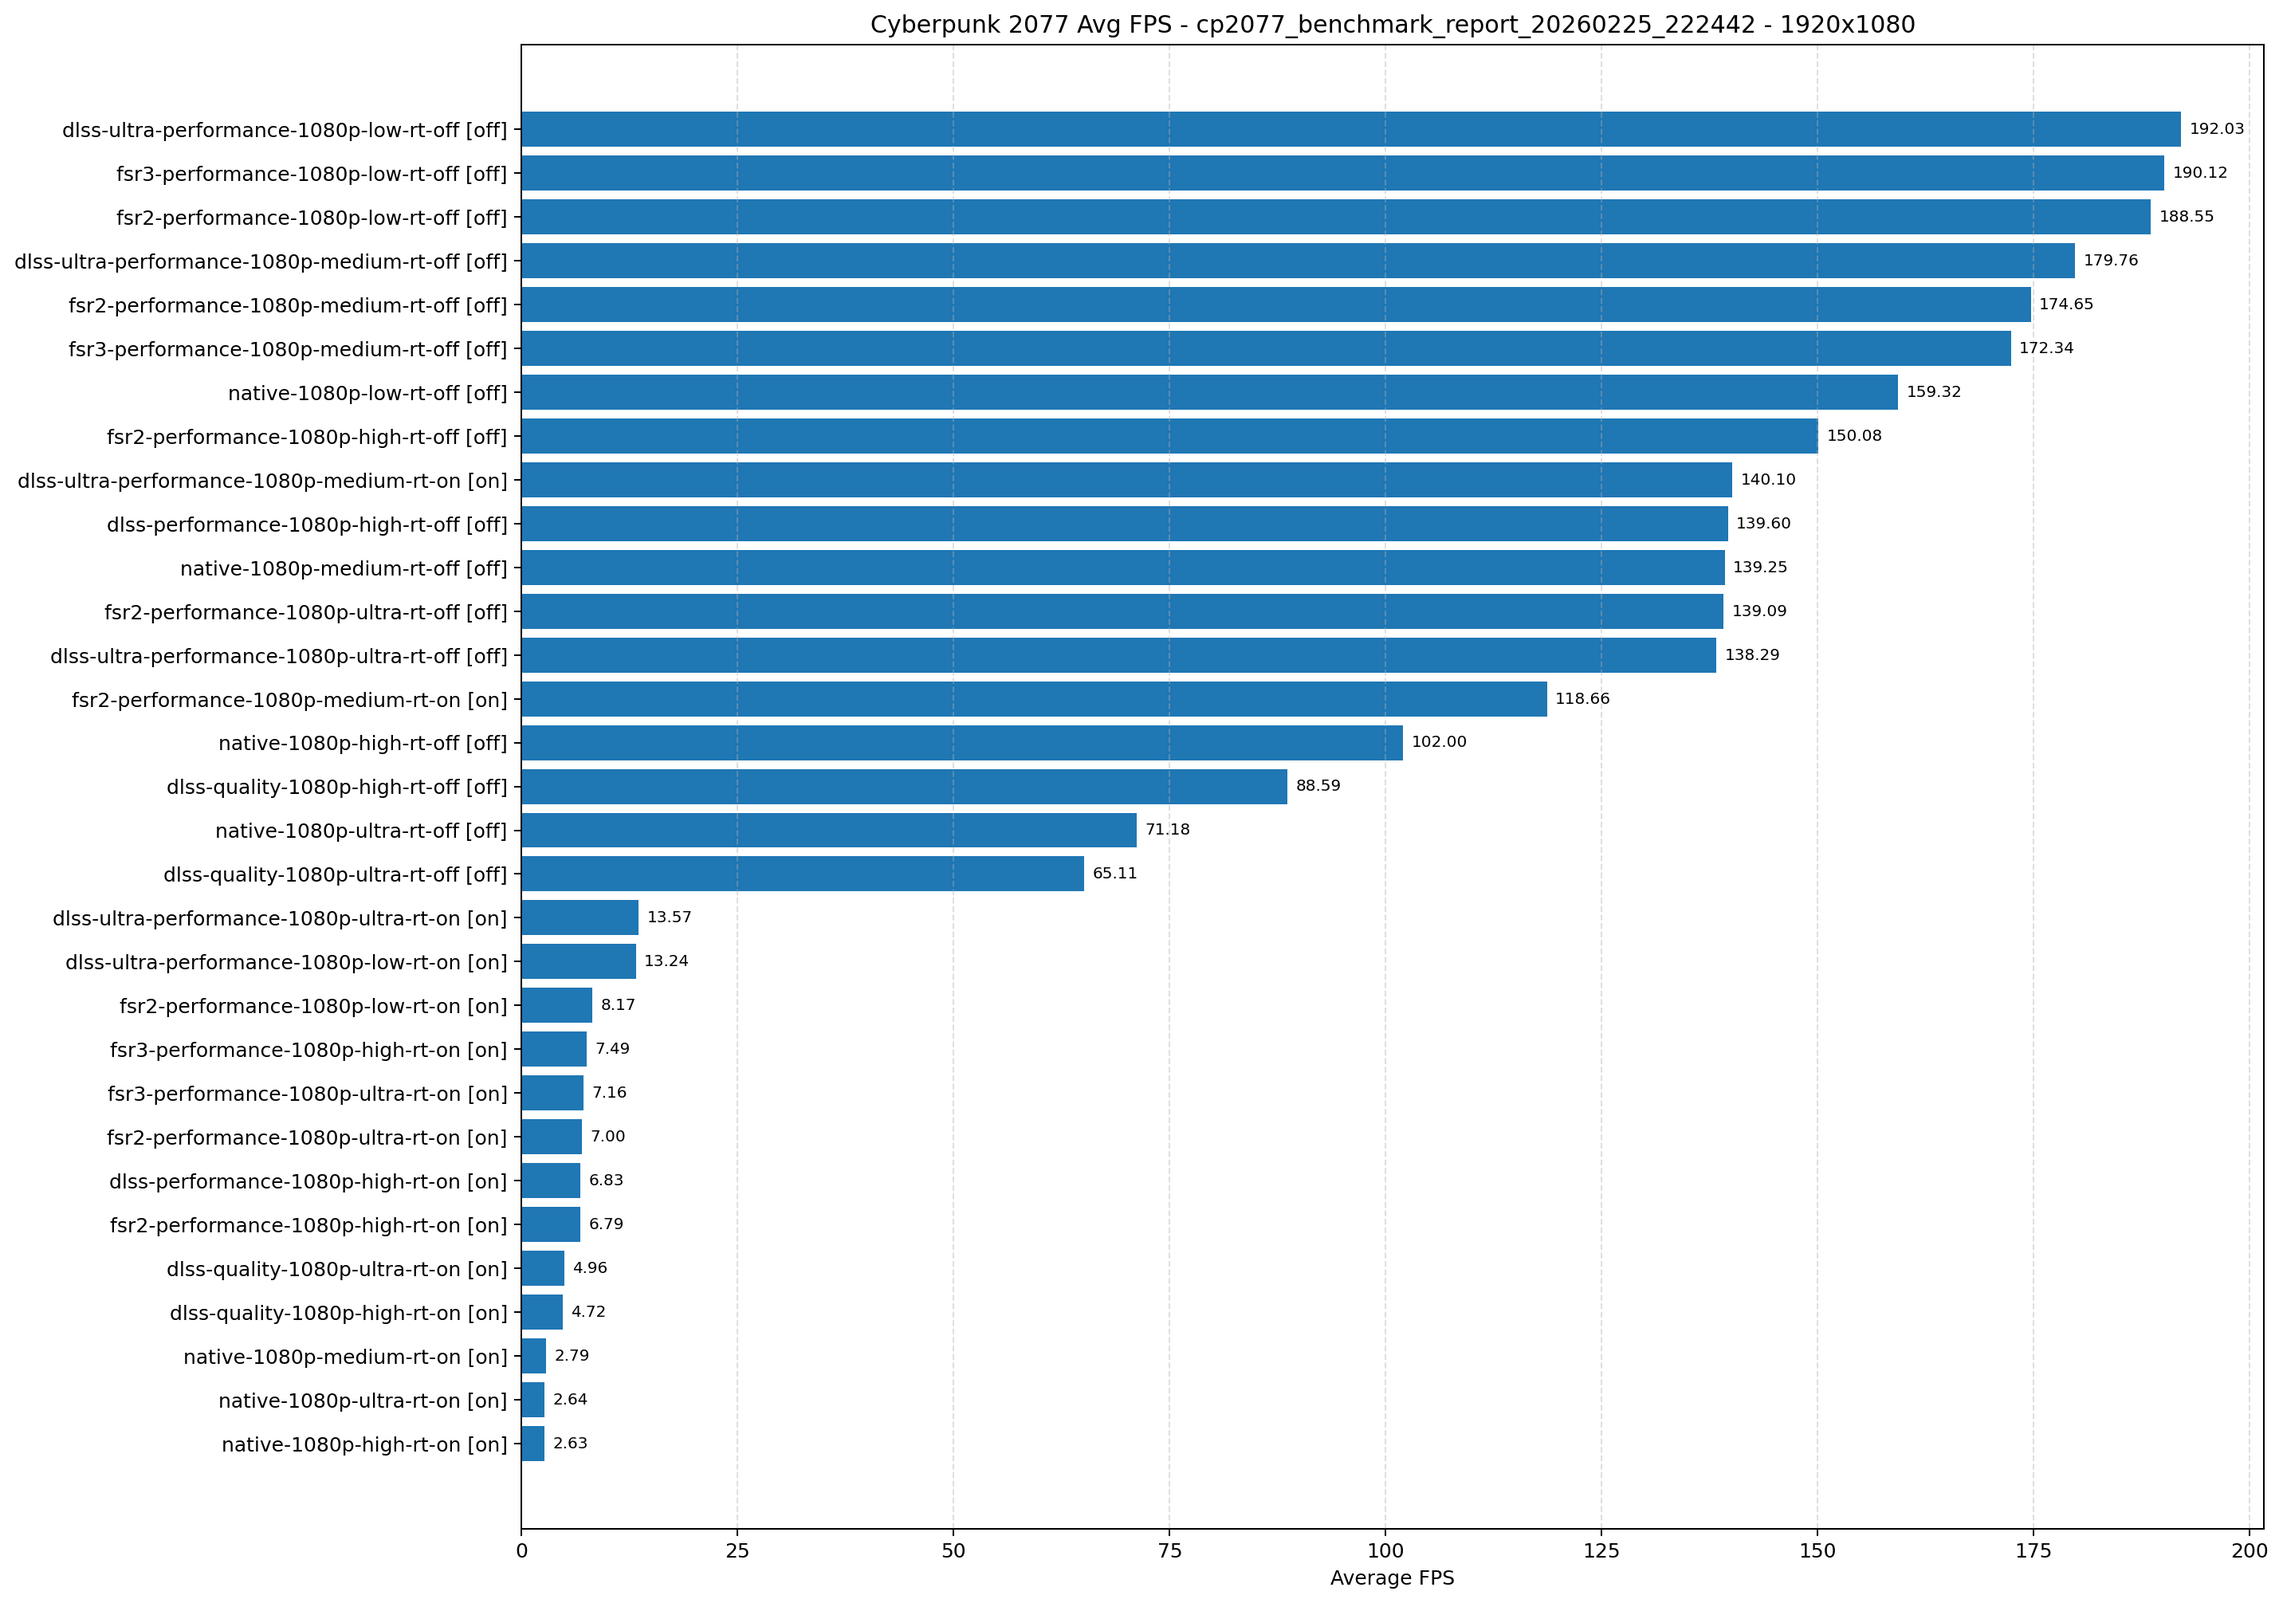
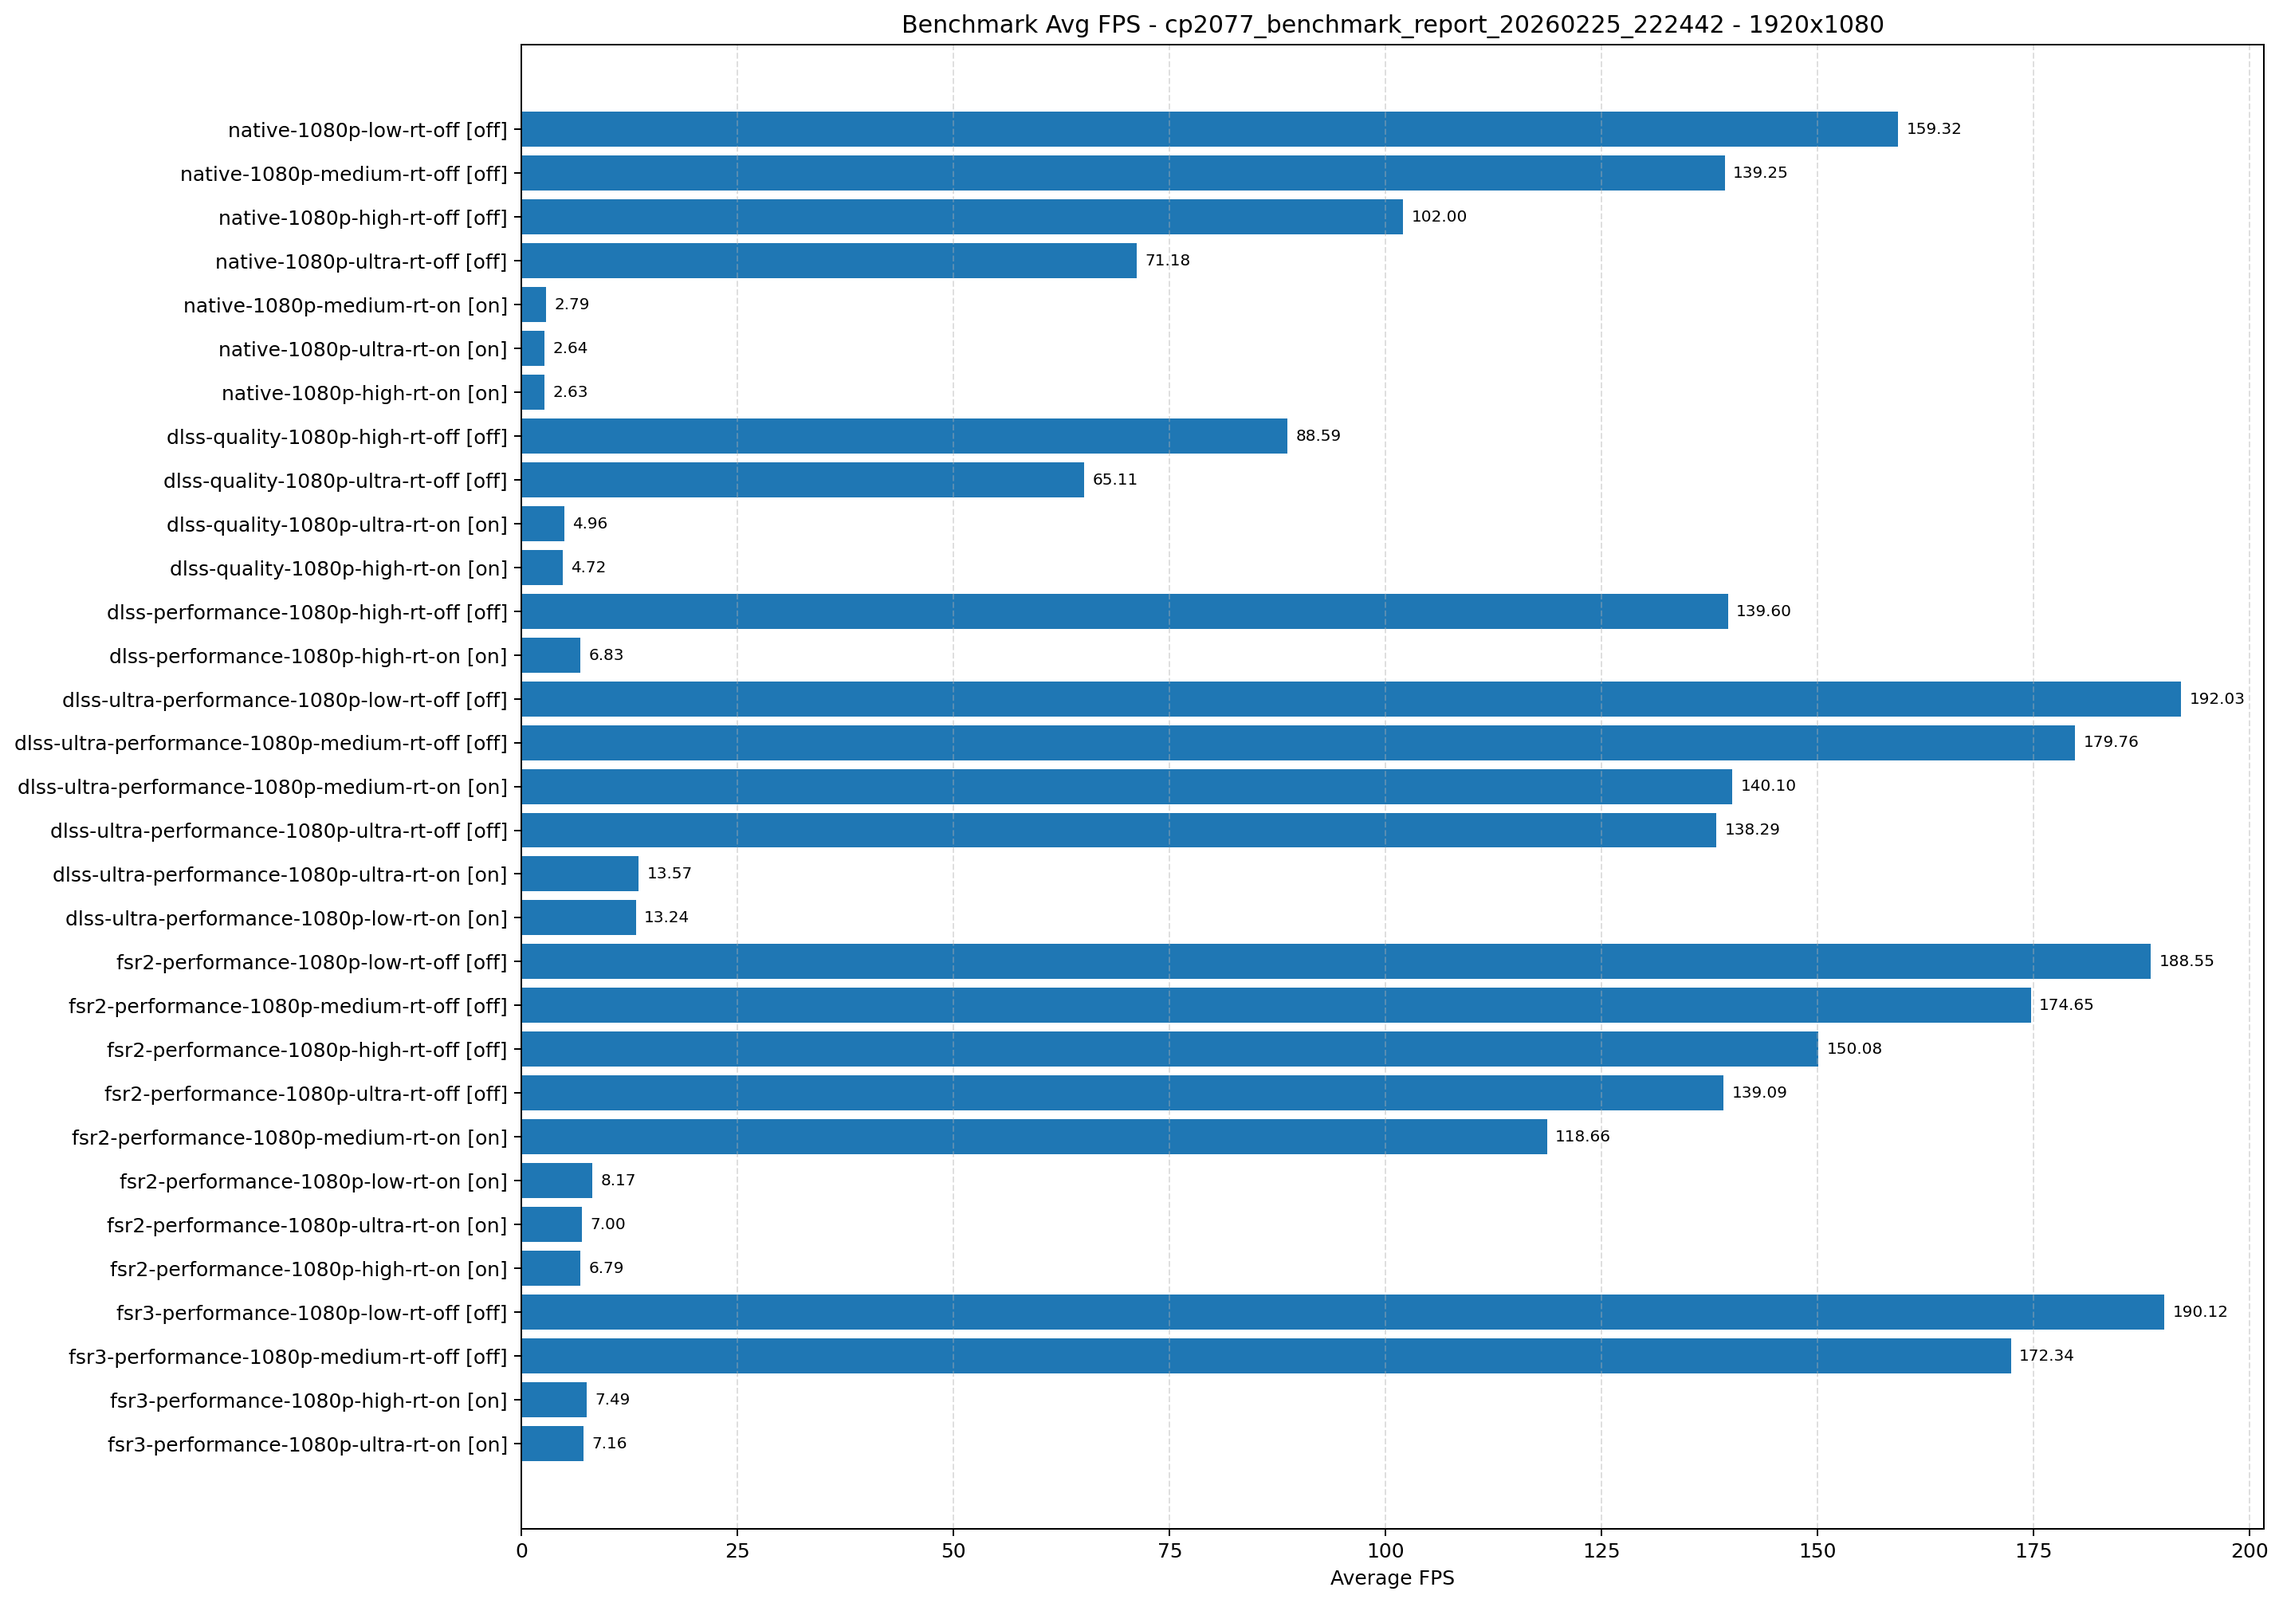
new reports sorting

Changed region(s): [[0.0, 0.0617, 0.9633, 0.9249], [0.3729, 0.0, 0.839, 0.0308]]

diff --git a/src/convert_markdown_reports.py b/src/convert_markdown_reports.py
@@ -143,8 +143,30 @@ def group_rows(rows: Sequence[ReportRow], split_by_resolution: bool) -> Dict[str
     return grouped
 
 
+def configuration_group(mode: str) -> Tuple[int, str]:
+    normalized = mode.strip().lower()
+
+    if normalized == "native":
+        return (0, normalized)
+    if "quality" in normalized:
+        return (1, normalized)
+    return (2, normalized)
+
+
+def sort_rows_for_visual_report(rows: Sequence[ReportRow]) -> List[ReportRow]:
+    return sorted(
+        rows,
+        key=lambda item: (
+            configuration_group(item.mode)[0],
+            configuration_group(item.mode)[1],
+            -item.avg_fps,
+            item.test_name.lower(),
+        ),
+    )
+
+
 def build_chart(rows: Sequence[ReportRow], title: str) -> plt.Figure:
-    ordered = sorted(rows, key=lambda item: item.avg_fps, reverse=True)
+    ordered = sort_rows_for_visual_report(rows)
 
     labels = [f"{item.test_name} [{item.ray_tracing}]" for item in ordered]
     values = [item.avg_fps for item in ordered]
@@ -204,9 +226,11 @@ def render_html_report(report_name: str, grouped_rows: Dict[str, List[ReportRow]
         title = f"Benchmark Avg FPS - {report_name} - {label}"
         image_b64 = render_chart_base64(rows, title)
 
+        ordered_rows = sort_rows_for_visual_report(rows)
+
         table_rows = "\n".join(
             f"<tr><td>{r.test_name}</td><td>{r.resolution}</td><td>{r.ray_tracing}</td><td>{r.avg_fps:.2f}</td><td>{r.min_fps:.2f}</td><td>{r.max_fps:.2f}</td></tr>"
-            for r in sorted(rows, key=lambda item: item.avg_fps, reverse=True)
+            for r in ordered_rows
         )
 
         sections.append(
